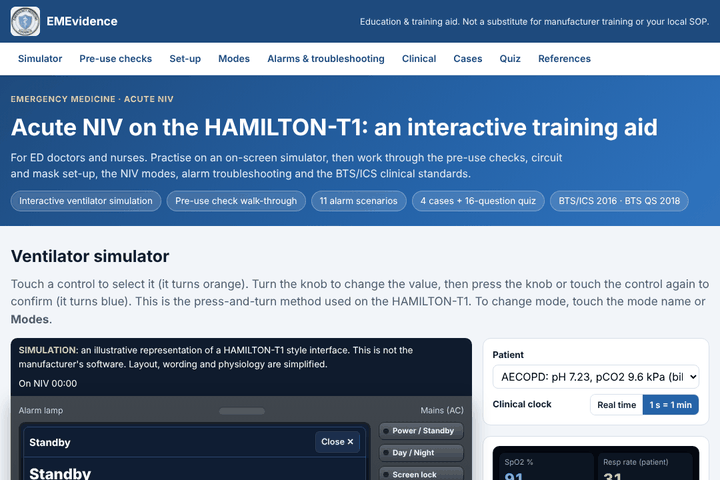
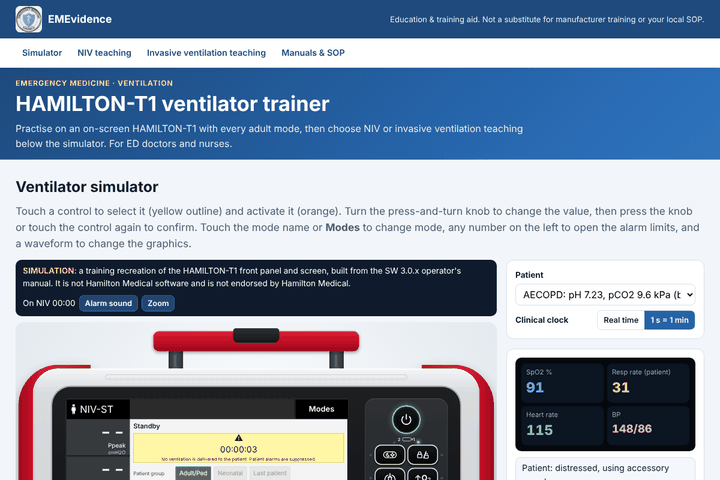
Make every tool tile show its screenshot; refresh Hamilton T1 screenshot
Some browsers kept showing the blue icon fallback on tiles whose screenshot
exists and loads fine, which points to a stale or failed copy held in the
browser or service-worker cache. Screenshot URLs now carry a version query,
a failed screenshot is retried once past the cache before the fallback is
shown, and the service-worker cache is renamed so old entries are cleared.

The Hamilton T1 screenshot is recaptured from the new ventilator trainer at
wmebemventilator.netlify.app (1200x800, shrunk to 720x480 like the others).

Claude-Session: https://claude.ai/code/session_01LrU4o7h6Bwdc5TxUmHMeCC

diff --git a/app.js b/app.js
@@ -263,6 +263,9 @@ const icons = {
     assessment: `<svg aria-hidden="true" xmlns="http://www.w3.org/2000/svg" width="24" height="24" viewBox="0 0 24 24" fill="none" stroke="currentColor" stroke-width="2" stroke-linecap="round" stroke-linejoin="round"><path d="M14 2H6a2 2 0 0 0-2 2v16a2 2 0 0 0 2 2h12a2 2 0 0 0 2-2V8z"></path><polyline points="14 2 14 8 20 8"></polyline><line x1="16" y1="13" x2="8" y2="13"></line><line x1="16" y1="17" x2="8" y2="17"></line><polyline points="10 9 9 9 8 9"></polyline></svg>`
 };
 
+// Bump when screenshots are replaced, so browsers fetch the new files instead of a stale or failed cached copy
+const SCREENSHOT_VERSION = '2026-10-10';
+
 function createToolCard(tool, isSmall = false) {
     const icon = icons[tool.icon] || icons.procedure;
     const featuredClass = tool.featured ? 'featured' : '';
@@ -275,7 +278,7 @@ function createToolCard(tool, isSmall = false) {
         <div class="tool-card ${featuredClass} ${smallClass}" data-category="${escapeHtml(tool.category)}" data-tags="${escapeHtml(tool.tags.join(' '))}" data-tool-id="${escapeHtml(tool.id)}">
             ${betaBadge}
             <div class="tool-screenshot">
-                <img src="${escapeHtml(tool.screenshot)}" alt="" loading="lazy">
+                <img src="${escapeHtml(tool.screenshot)}?v=${SCREENSHOT_VERSION}" alt="" loading="lazy">
                 <div class="tool-screenshot-overlay" aria-hidden="true">
                     <div class="tool-icon-small">
                         ${icon}
@@ -429,10 +432,16 @@ document.addEventListener('click', (e) => {
     }
 });
 
-// Show the icon fallback when a screenshot is missing
+// If a screenshot fails, retry once past any cache; show the icon fallback only if that fails too
 document.addEventListener('error', (e) => {
-    if (e.target.tagName === 'IMG' && e.target.closest('.tool-screenshot')) {
-        e.target.parentElement.classList.add('no-screenshot');
+    const img = e.target;
+    if (img.tagName === 'IMG' && img.closest('.tool-screenshot')) {
+        if (!img.dataset.retried) {
+            img.dataset.retried = 'true';
+            img.src = img.getAttribute('src').split('?')[0] + '?retry=' + Date.now();
+            return;
+        }
+        img.parentElement.classList.add('no-screenshot');
     }
 }, true);
 

diff --git a/sw.js b/sw.js
@@ -1,5 +1,5 @@
 // Bump CACHE_NAME whenever the list of pre-cached files changes; old caches are deleted on activate
-const CACHE_NAME = 'emevidence-v2';
+const CACHE_NAME = 'emevidence-v3';
 const ASSETS = [
   '/',
   '/index.html',
